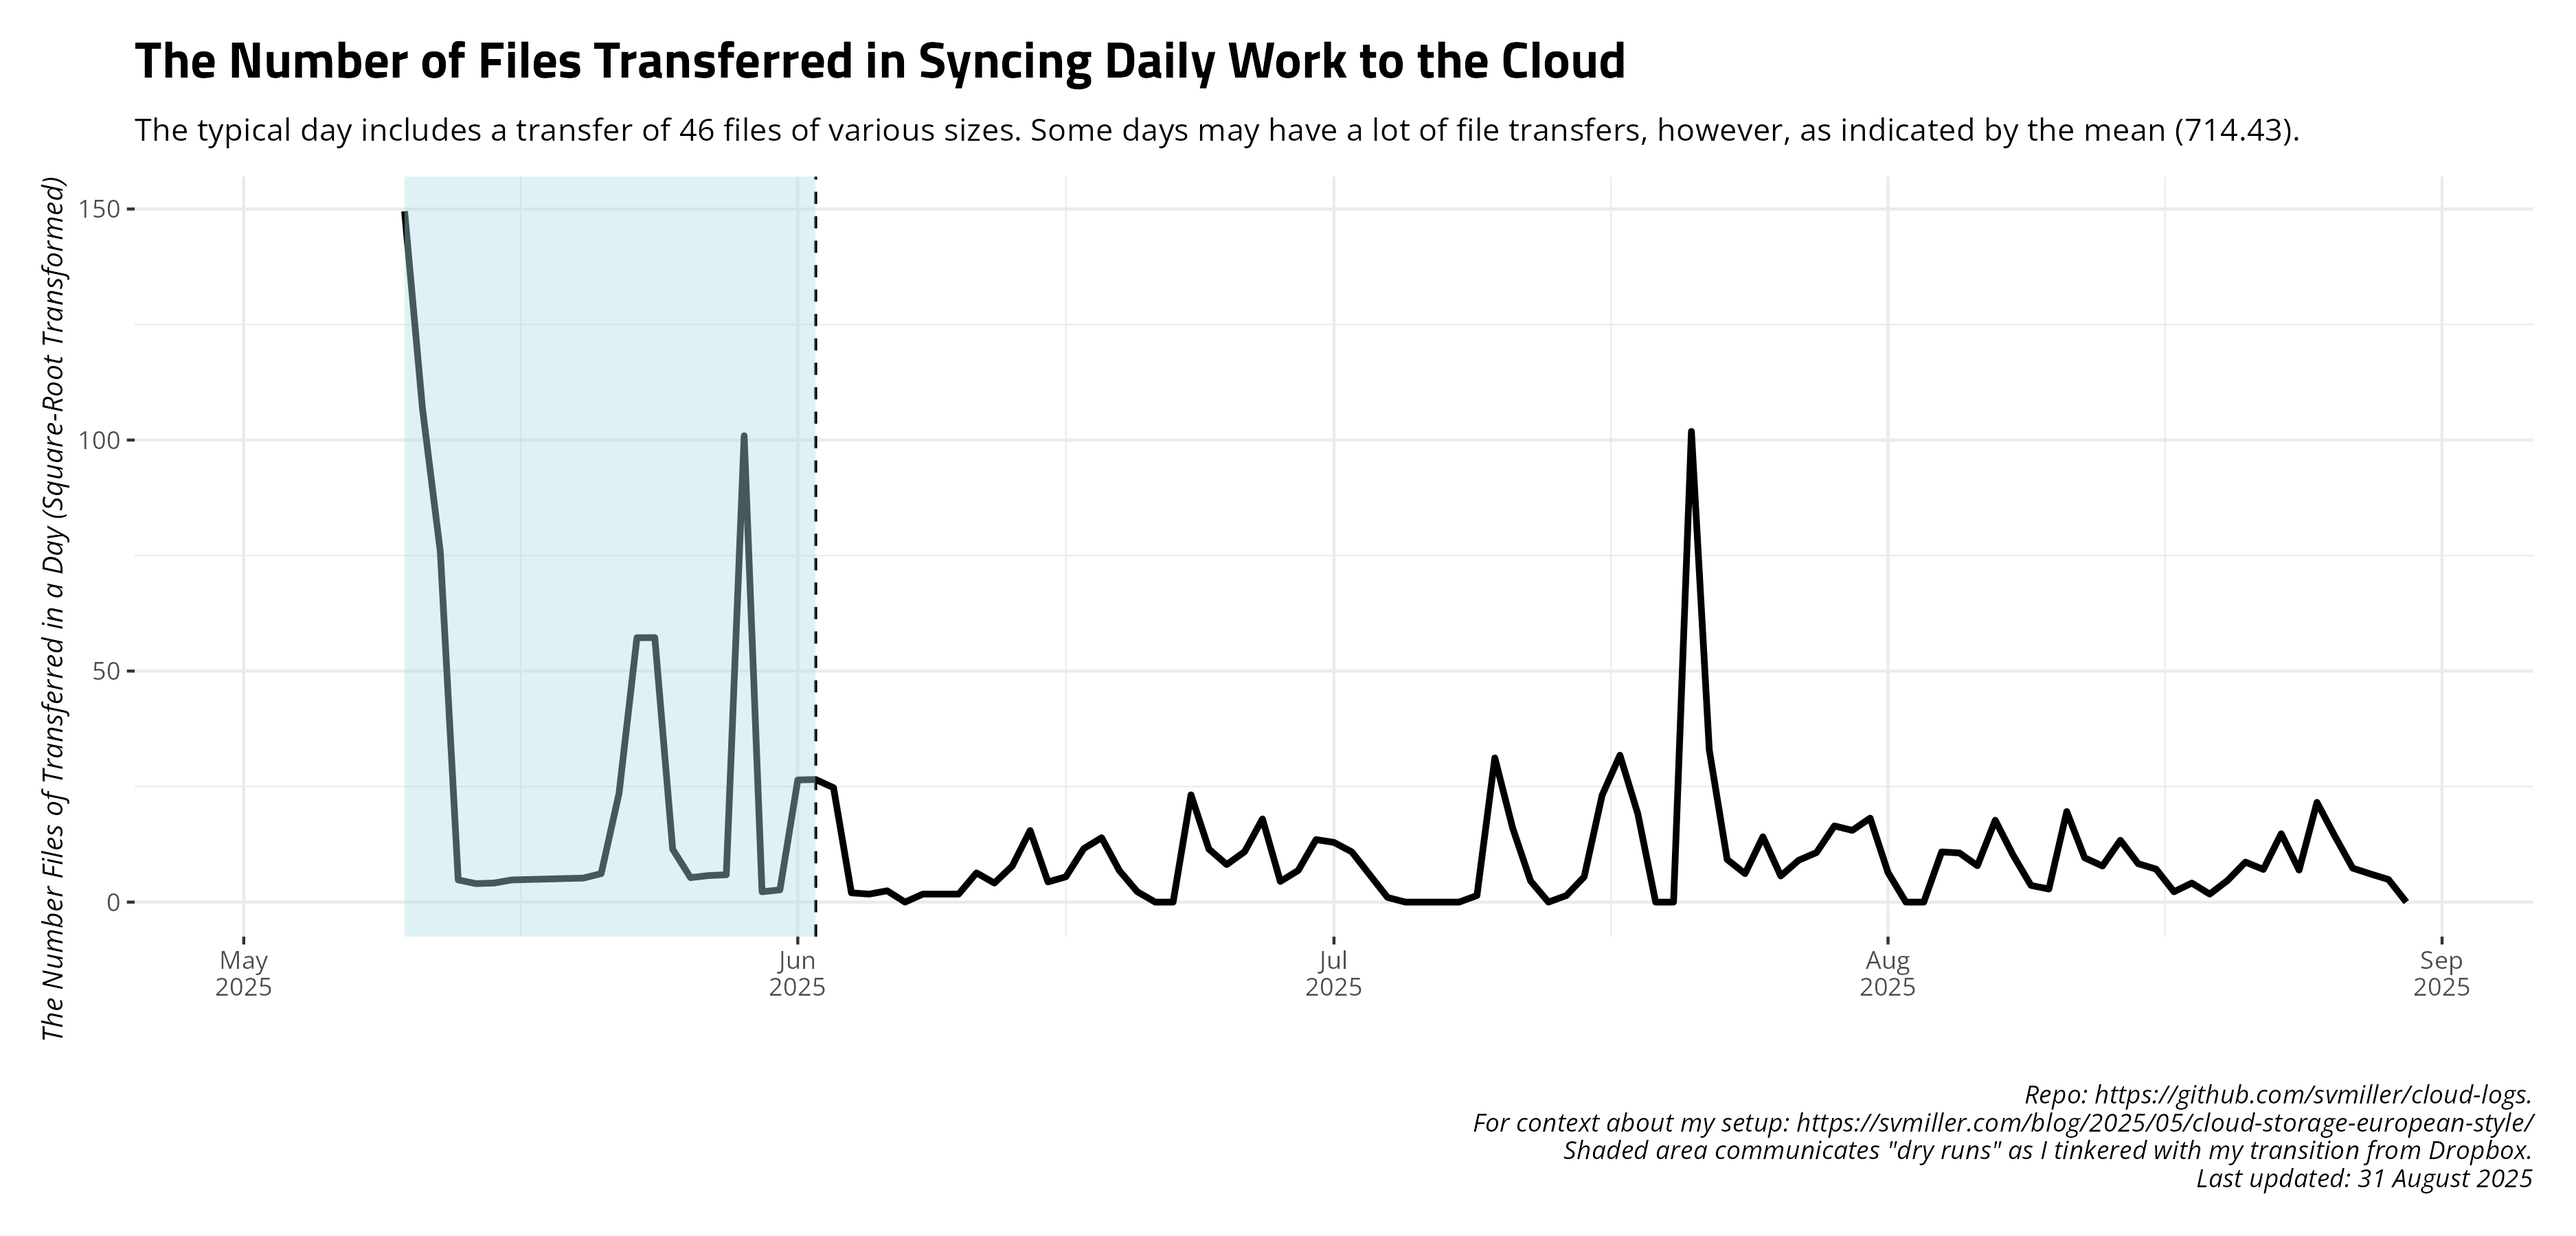
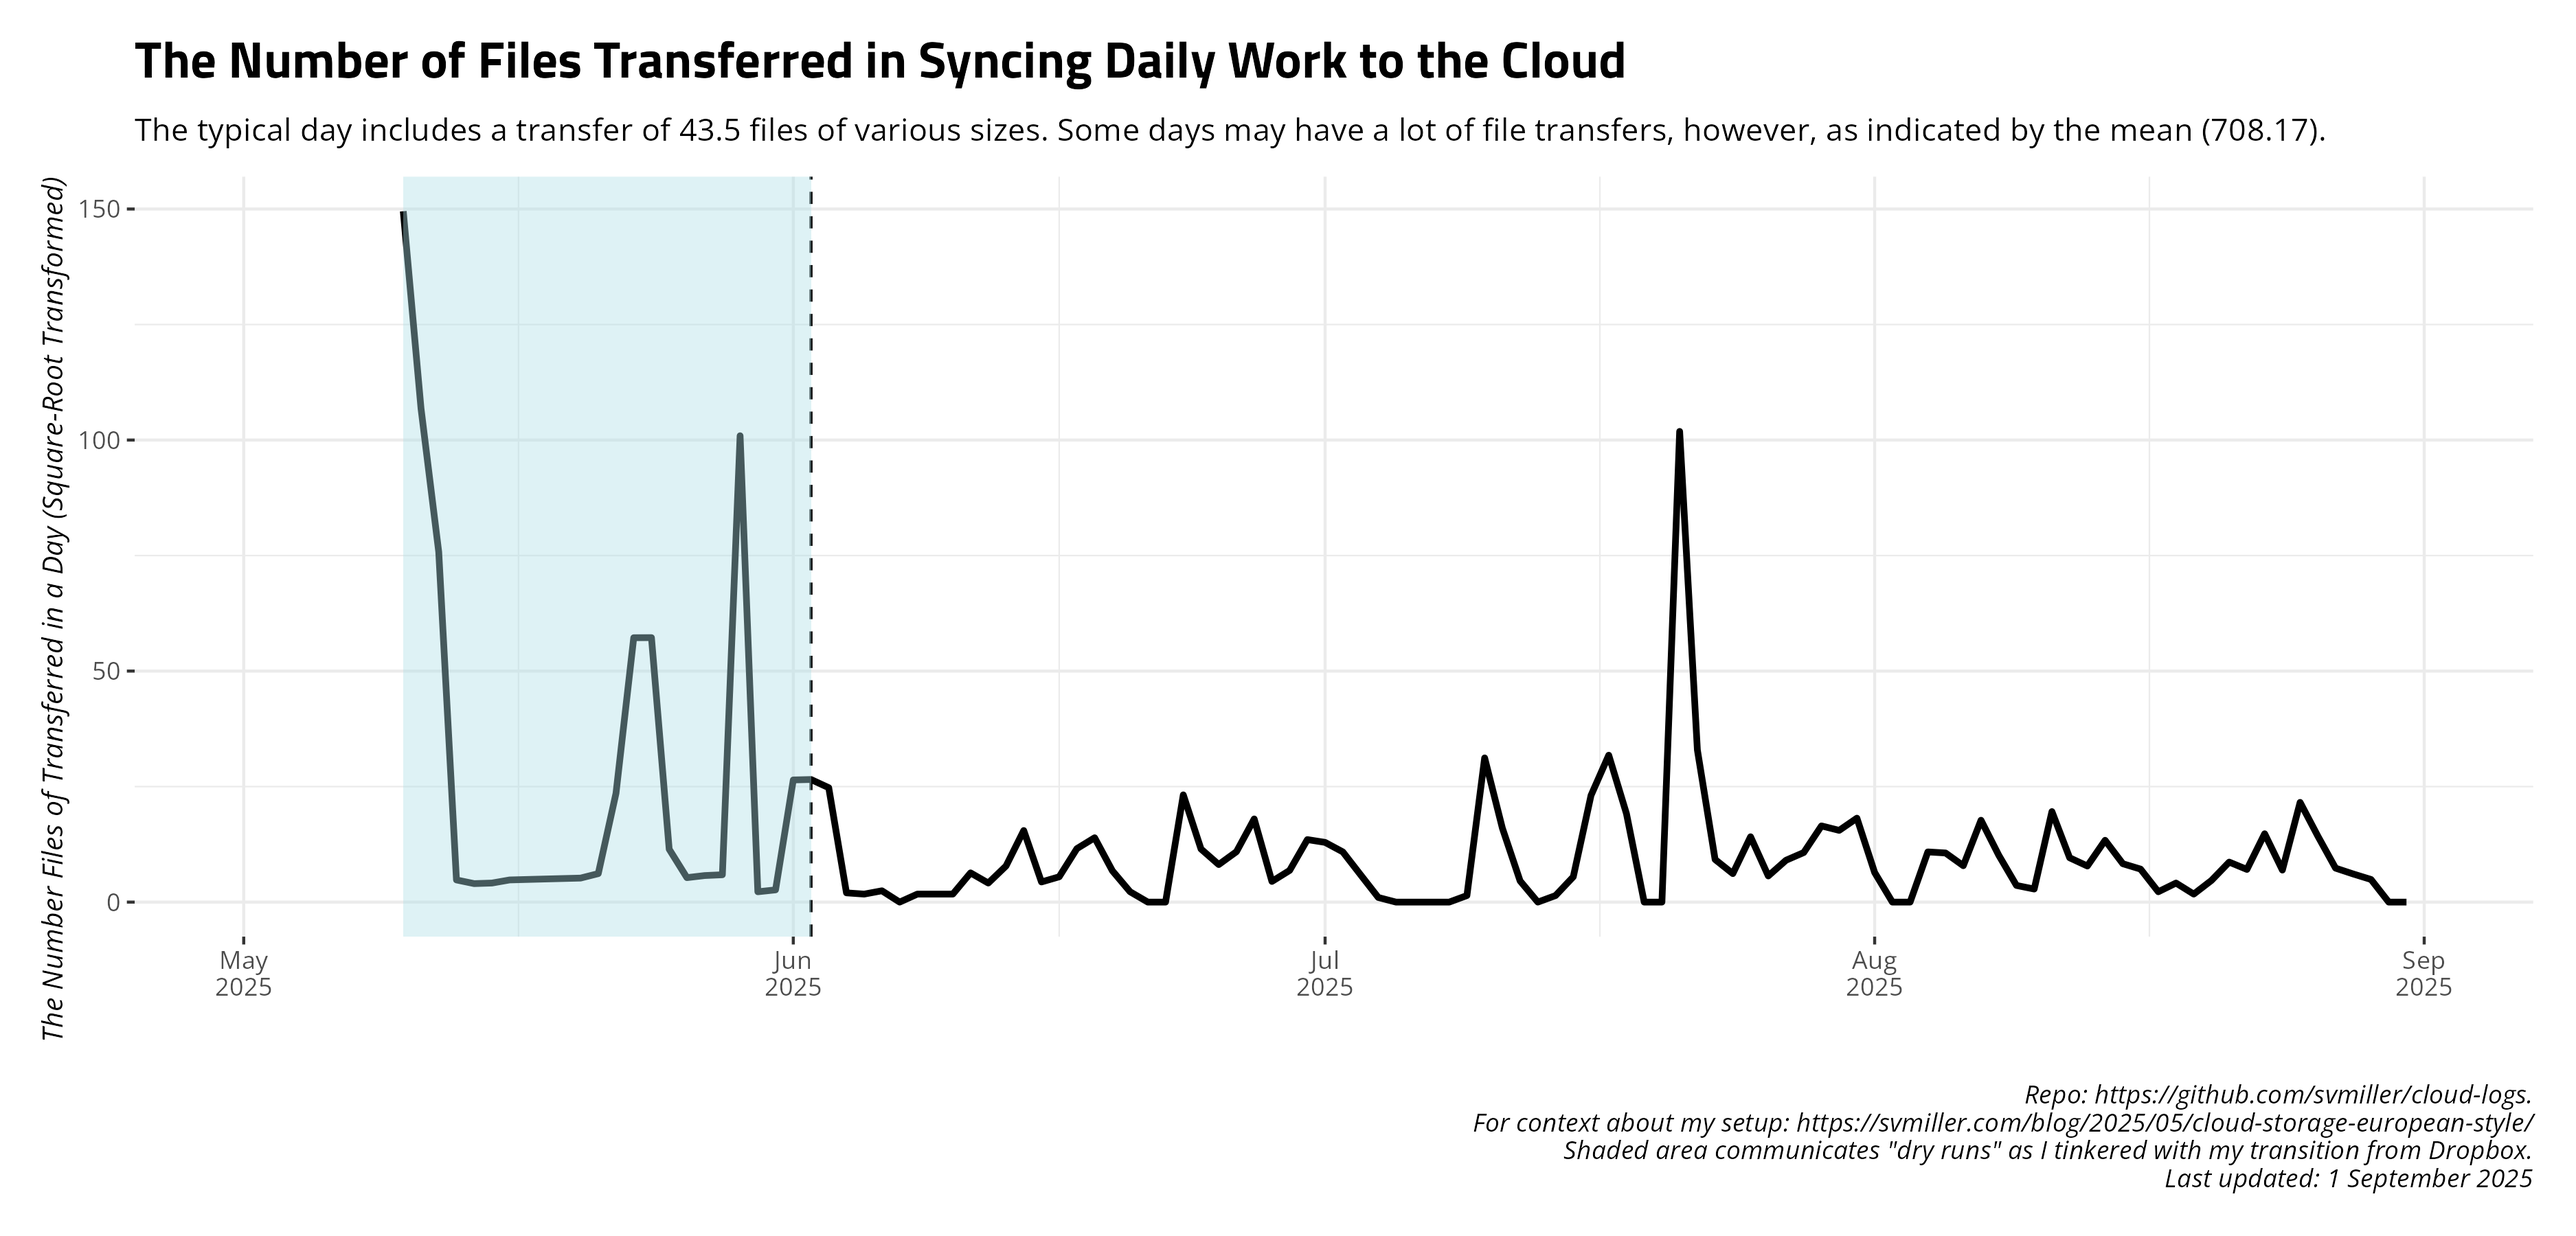
Date: 2025-09-01 09:00:14. Hi mom!

diff --git a/README.md b/README.md
@@ -27,17 +27,17 @@ and uploads to Github.
     #> # A tibble: 14 × 4
     #>    date       ftransfer stransfer   elapsed
     #>    <date>         <dbl> <chr>       <chr>  
-    #>  1 2025-08-17         5 51.859 KiB  4m7.0s 
-    #>  2 2025-08-18        17 198.560 KiB 4m31.5s
-    #>  3 2025-08-19         3 50.007 KiB  5m15.2s
-    #>  4 2025-08-20        22 371.275 KiB 4m2.9s 
-    #>  5 2025-08-21        75 611.527 KiB 4m52.6s
-    #>  6 2025-08-22        50 496.052 KiB 4m6.1s 
-    #>  7 2025-08-23       219 7.608 MiB   5m0.8s 
-    #>  8 2025-08-24        48 21.815 MiB  5m55.0s
-    #>  9 2025-08-25       466 14.057 MiB  4m15.5s
-    #> 10 2025-08-26       204 33.605 MiB  7m26.6s
-    #> 11 2025-08-27        54 224.264 KiB 4m15.3s
-    #> 12 2025-08-28        37 151.144 KiB 3m59.5s
-    #> 13 2025-08-29        24 103.784 KiB 4m55.0s
-    #> 14 2025-08-30         0 <NA>        5m16.9s
+    #>  1 2025-08-18        17 198.560 KiB 4m31.5s
+    #>  2 2025-08-19         3 50.007 KiB  5m15.2s
+    #>  3 2025-08-20        22 371.275 KiB 4m2.9s 
+    #>  4 2025-08-21        75 611.527 KiB 4m52.6s
+    #>  5 2025-08-22        50 496.052 KiB 4m6.1s 
+    #>  6 2025-08-23       219 7.608 MiB   5m0.8s 
+    #>  7 2025-08-24        48 21.815 MiB  5m55.0s
+    #>  8 2025-08-25       466 14.057 MiB  4m15.5s
+    #>  9 2025-08-26       204 33.605 MiB  7m26.6s
+    #> 10 2025-08-27        54 224.264 KiB 4m15.3s
+    #> 11 2025-08-28        37 151.144 KiB 3m59.5s
+    #> 12 2025-08-29        24 103.784 KiB 4m55.0s
+    #> 13 2025-08-30         0 <NA>        5m16.9s
+    #> 14 2025-08-31         0 <NA>        5m16.9s
